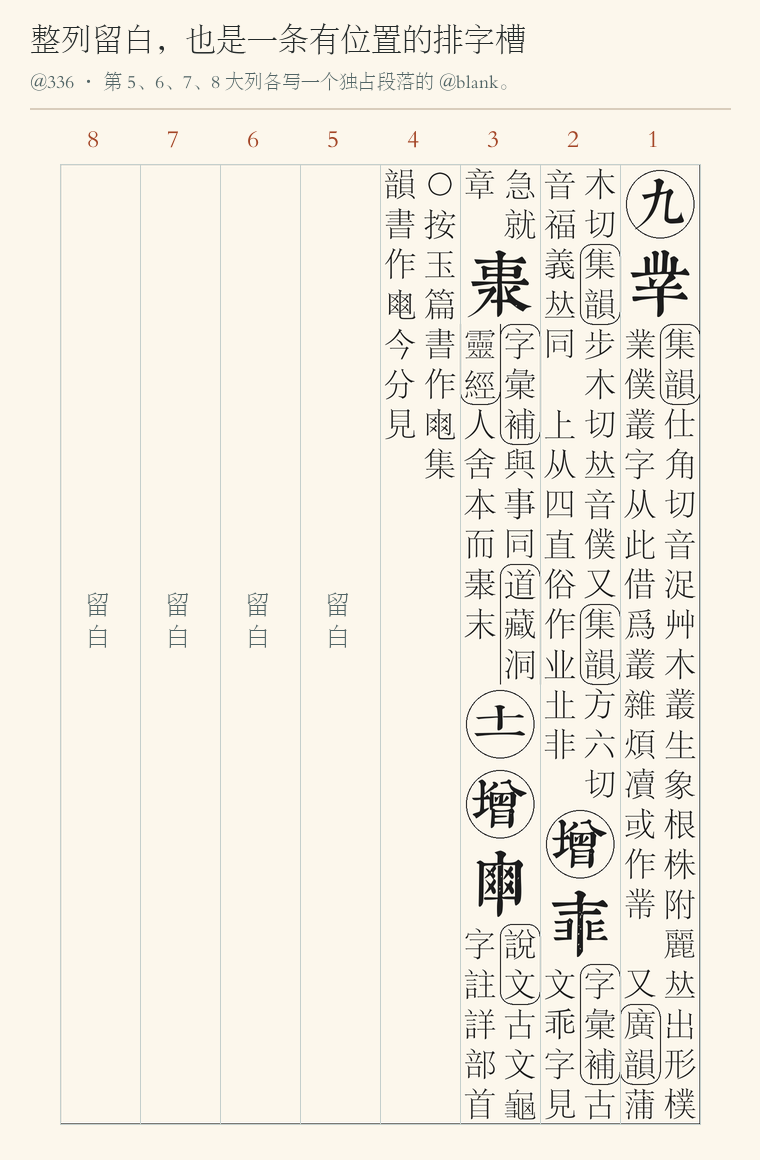
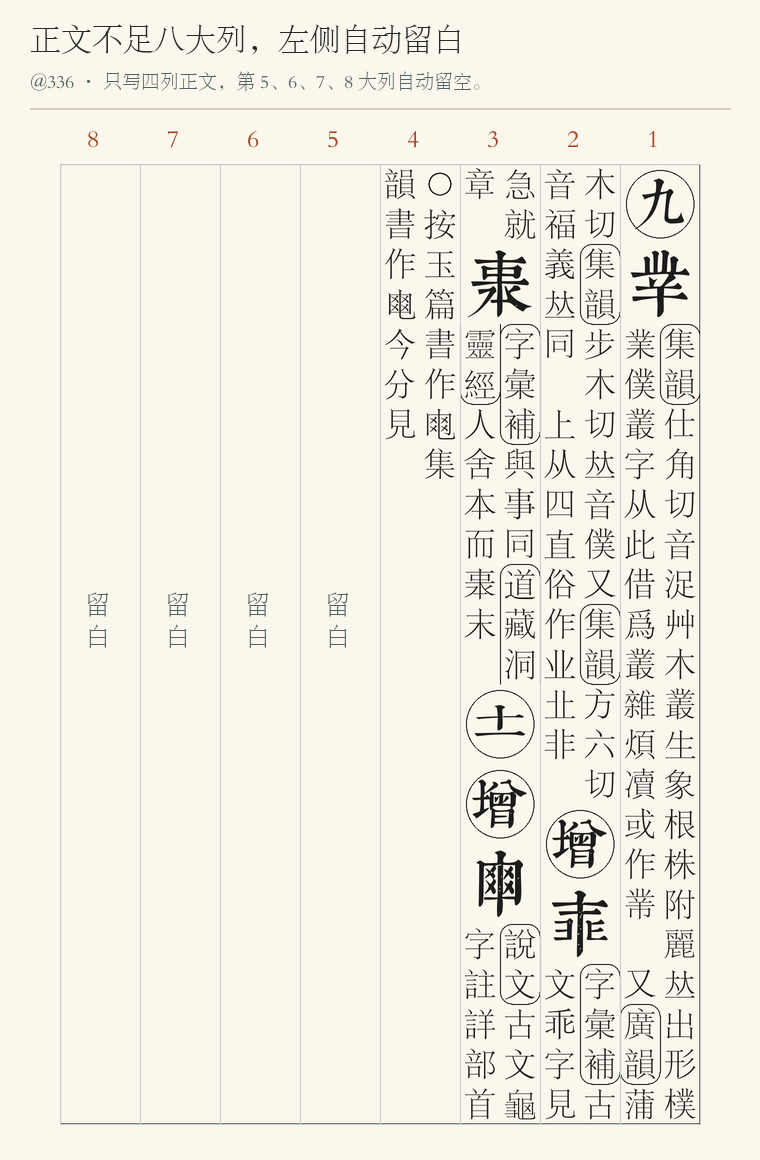
refactor(guji): remove @blank syntax and use automatic page padding

Changed region(s): [[0.0303, 0.0, 0.6961, 0.0931]]

diff --git a/guji-preview-grid/test/ir-contracts.spec.ts b/guji-preview-grid/test/ir-contracts.spec.ts
@@ -13,6 +13,7 @@ import { indexLayout, projectBooks, locateCell } from "../src/ir/projection";
 import { compileProfile } from "../src/ir/profile";
 import { parsePages } from "../src/parser/parse-pages";
 import { formatDocument } from "../src/components/dataset/format-document";
+import { getPageFrame } from "../src/ir/page-frame";
 import { nextGujiToken } from "../src/components/editor/guji-language";
 import { MatrixPages } from "../src/components/matrix/MatrixPages";
 import type { IRBookOverlay } from "../src/ir/types";
@@ -82,21 +83,30 @@ describe("layout plan and configuration", () => {
   it("diagnoses a three-column group without changing its contents", () => {
     const doc = gj2ir("@1\n\n甲\n乙\n丙\n");
     const page = layout3(doc)[0];
-    expect(page.diagnostics.map((d) => d.code)).toEqual(["band-count", "page-width", "band-width"]);
+    expect(page.diagnostics.map((d) => d.code)).toEqual(["band-width"]);
     expect(page.totalCols).toBe(3);
     expect(irToText(doc)).toBe("甲乙丙\n");
   });
-  it("keeps explicit empty columns through parsing, formatting and highlighting", () => {
+  it("treats the removed blank directive as ordinary text", () => {
     const source = "@1\n\n@blank\n\n甲乙\n";
-    const a = gj2ir(source);
-    const b = gj2ir(source.replace("@blank", "#"));
-    expect(layout3(a)).toEqual(layout3(b));
-    expect(irToText(a)).toBe("\n甲乙\n");
-    expect(parsePages(source)).toEqual(parsePages(source.replace("@blank", "#")));
+    const doc = gj2ir(source);
+    expect(irToText(doc)).toBe("@blank\n甲乙\n");
+    expect(parsePages(source)[0].l[0]).toEqual({ c: [{ t: "@blank" }] });
     expect(formatDocument(source).text).toBe(source);
-    expect(nextGujiToken("@blank", 0, true)).toMatchObject({ tok: "keyword", inBookAfter: true });
-    expect(layout3(a)[0].diagnostics.filter((d) => d.code === "empty-band")).toHaveLength(1);
+    expect(nextGujiToken("@blank", 0)).toMatchObject({ tok: null });
+    expect(nextGujiToken("@blank", 0, true)).toMatchObject({ tok: "link", inBookAfter: true });
+    expect(layout3(doc)[0].diagnostics).toEqual([]);
     expect(irToText(gj2ir("@1\n\n正文@blank\n"))).toContain("正文@blank");
+  });
+  it("allows automatic page padding but still diagnoses excess columns", () => {
+    for (const count of [0, 1, 4, 8]) {
+      const page = layout3(gj2ir(`@1\n\n${Array(count).fill("#甲").join("\n\n")}\n`))[0];
+      expect(page.bands).toHaveLength(count);
+      expect(getPageFrame(page)).toMatchObject({ cols: 16, rows: 24 });
+      expect(page.diagnostics).toEqual([]);
+    }
+    const source = `@1\n\n${Array(9).fill("#甲").join("\n\n")}\n`;
+    expect(layout3(gj2ir(source))[0].diagnostics.map((d) => d.code)).toEqual(["band-count", "page-width"]);
   });
 });
 
@@ -140,7 +150,7 @@ describe("overlay projection", () => {
   });
 });
 
-it("preserves the 45 migrated IR/TXT exports and their eight-band layouts", () => {
+it("preserves the 45 migrated IR/TXT exports within the full page frame", () => {
   const manifest = JSON.parse(read("kangxi-gold/manifest.json"));
   const widthCandidates: number[] = [];
   // New pages may be undergoing correction and have no saved exports yet.
@@ -156,8 +166,8 @@ it("preserves the 45 migrated IR/TXT exports and their eight-band layouts", () =
     expect(doc, `IR @${entry.page}`).toEqual(JSON.parse(read(`${base}.json`)));
     expect(irToText(doc), `TXT @${entry.page}`).toBe(read(`${base}.txt`));
     const page = layout3(doc)[0];
-    expect(page.bands).toHaveLength(8);
-    expect(page.totalCols).toBe(16);
+    expect(page.bands.length).toBeLessThanOrEqual(8);
+    expect(getPageFrame(page)).toMatchObject({ cols: 16, rows: 24 });
     if ([318, 320, 322, 325, 327].includes(entry.page))
       expect(page.bands.map((band) => band.rows)).toEqual(Array(8).fill(24));
     if (page.diagnostics.some((d) => d.code === "page-width")) widthCandidates.push(entry.page);

diff --git a/guji-preview-grid/test/parser.spec.ts b/guji-preview-grid/test/parser.spec.ts
@@ -36,9 +36,10 @@ describe("split", () => {
 });
 
 describe("generic line-scoped large text", () => {
-  it("page markers and explicit empty bands", () => {
+  it("only numeric page markers are structural", () => {
     expect(parseLine("@312")).toEqual({ page: 312 });
-    expect(parseLine("@blank")).toEqual({ st: "empty" });
+    expect(parseLine("@blank")).toEqual({ c: [{ t: "@blank" }] });
+    expect(parseLine("#")).toEqual({ c: [] });
   });
   it("all following content is large, including 古文, ASCII and extended Han", () => {
     expect(parseInline("前#甲古文Ab𠀀")).toEqual([
@@ -84,8 +85,8 @@ describe("formatGj", () => {
     expect(formatGj("古文：㘳")).toBe("古文：㘳\n");
     expect(formatGj("小字#甲【書】乙 // #注")).toBe("小字#甲【書】乙 // #注\n");
   });
-  it("canonicalizes empty columns and trims only document padding", () => {
-    expect(formatGj("\n// header\n@1\n\n#\n\n甲\n// tail\n")).toBe("@1\n\n@blank\n\n甲\n");
+  it("trims only document padding without rewriting size markers", () => {
+    expect(formatGj("\n// header\n@1\n\n#\n\n甲\n// tail\n")).toBe("@1\n\n#\n\n甲\n");
     const once = formatGj("#甲#乙\n古文：\n#(z)#丁");
     expect(formatGj(once)).toBe(once);
   });

diff --git a/guji-preview-grid/test/matrix-pages.spec.ts b/guji-preview-grid/test/matrix-pages.spec.ts
@@ -22,16 +22,18 @@ function expectFullPage(root: HTMLElement) {
 }
 
 describe("整页字格版框", () => {
-  it.each(["@1\n", "@1\n\n@blank\n"])("空页也保留 8×12 大字格：%j", (source) => {
+  it.each(["@1\n", "@1\n\n\n", "@1\n\n// 空页\n"])("空页也保留 8×12 大字格：%j", (source) => {
     const root = render(source);
     expectFullPage(root);
     expect(root.querySelectorAll(".m-large, .m-cell")).toHaveLength(0);
+    expect(root.querySelector(".m-layout-warning")).toBeNull();
   });
 
   it("短页保持字格大小，正文与书名框一起靠右，缺列留在左侧", () => {
     const root = render("@1\n\n#甲\n【乙丙】\n丁戊\n\n#己\n");
     expectFullPage(root);
     const bands = [...root.querySelectorAll<HTMLElement>(".m-band")];
+    expect(root.querySelector(".m-layout-warning")).toBeNull();
     expect(bands.map((band) => band.style.gridColumn)).toEqual(["15 / span 2", "13 / span 2"]);
     expect(bands[0].querySelector<HTMLElement>(".m-large")!.style.gridRow).toBe("1 / span 2");
     const book = root.querySelector<HTMLElement>(".m-book")!;

diff --git a/guji-preview-grid/src/components/editor/guji-language.ts b/guji-preview-grid/src/components/editor/guji-language.ts
@@ -2,7 +2,6 @@
 import { HighlightStyle, StreamLanguage } from "@codemirror/language";
 import { tags as t } from "@lezer/highlight";
 import { scanInline, type InlineToken } from "../../parser/inline-tokens";
-import { isBlankBand } from "../../parser/structure";
 import { kangxiHeading } from "../../semantics/kangxi";
 
 export type GujiTokenName = "comment" | "keyword" | "meta" | "heading" | "link" | "strong" | "escape";
@@ -17,7 +16,7 @@ export function nextGujiToken(line: string, pos: number, inBook = false): {
   next: number; tok: GujiTokenName | null; inBookAfter: boolean;
 } {
   if (pos === 0) {
-    if (isBlankBand(line) || /^\s*@\d+\s*$/.test(line))
+    if (/^\s*@\d+\s*$/.test(line))
       return { next: line.length, tok: "keyword", inBookAfter: inBook };
     if (/^\s*=+\s*$/.test(line)) return { next: line.length, tok: "meta", inBookAfter: inBook };
     if (/^\s*\/\//.test(line)) return { next: line.length, tok: "comment", inBookAfter: inBook };

diff --git a/guji-preview-grid/src/ir/layout-diagnostics.ts b/guji-preview-grid/src/ir/layout-diagnostics.ts
@@ -15,8 +15,8 @@ export function diagnoseLayout(page: L3Page): LayoutDiagnostic[] {
   const add = (code: LayoutDiagnostic["code"], message: string, bandId?: string, severity: LayoutDiagnostic["severity"] = "warning") =>
     out.push({ code, severity, page: page.no, bandId, message });
   if (expectedBands !== null) {
-    if (page.bands.length !== expectedBands) add("band-count", `大列数 ${page.bands.length}，预期 ${expectedBands}`);
-    if (page.totalCols !== expectedBands * smallColumnsPerBand)
+    if (page.bands.length > expectedBands) add("band-count", `大列数 ${page.bands.length}，超出版面 ${expectedBands}`);
+    if (page.totalCols > expectedBands * smallColumnsPerBand)
       add("page-width", `页宽 ${page.totalCols} 格，预期 ${expectedBands * smallColumnsPerBand} 格`);
   }
   for (const band of page.bands) {

diff --git a/guji-preview-grid/test/guji-language.spec.ts b/guji-preview-grid/test/guji-language.spec.ts
@@ -28,8 +28,10 @@ describe("line-scoped large highlighting", () => {
     expect(segments("#甲乙")).toEqual([["#甲乙", "strong"]]);
     expect(segments("#**一部// 注")).toEqual([["#**一部", "heading"], ["// 注", "comment"]]);
   });
-  it("keeps page markers, blank columns, separators and comments structural", () => {
-    for (const line of ["@341", "@blank"]) expect(segments(line)).toEqual([[line, "keyword"]]);
+  it("keeps page markers, separators and comments structural", () => {
+    expect(segments("@341")).toEqual([["@341", "keyword"]]);
+    expect(segments("@blank")).toEqual([..."@blank"].map((ch) => [ch, "plain"]));
+    expect(segments("#")).toEqual([["#", "strong"]]);
     expect(segments("===")).toEqual([["===", "meta"]]);
     expect(segments("// #甲")).toEqual([["// #甲", "comment"]]);
   });

diff --git a/guji-preview-grid/src/parser/split-line.ts b/guji-preview-grid/src/parser/split-line.ts
@@ -1,5 +1,4 @@
 import { scanInline } from "./inline-tokens";
-import { isBlankBand } from "./structure";
 
 /** Keep a leading comma with the preceding large glyph, before its newline/comment. */
 export function attachLeadingCommas(text: string): string {
@@ -37,7 +36,6 @@ export function normalizeInput(text: string): string {
 /** Formatting preserves physical newlines: they terminate the # size scope. */
 export function formatGj(text: string): string {
   const lines = attachLeadingCommas(normalizeInput(text)).split("\n").map((line) => {
-    if (isBlankBand(line)) return line.replace(/^[ \t]*#(?=[ \t]*(?:\/\/|$))/, "@blank");
     let seen = false, out = "", last = 0;
     for (const t of scanInline(line).tokens) if (t.kind === "size") {
       if (seen) { out += line.slice(last, t.from); last = t.to; }

diff --git a/guji-preview-grid/src/ir/gj2ir.ts b/guji-preview-grid/src/ir/gj2ir.ts
@@ -10,7 +10,6 @@ import type {
 } from "./types";
 import { GUJI_PROFILE } from "./types";
 import { scanInline } from "../parser/inline-tokens";
-import { isBlankBand } from "../parser/structure";
 
 const chunkTransform = (s: string) =>
   s
@@ -179,12 +178,6 @@ export function gj2ir(text: string): IRDocument {
     const page = pages[pages.length - 1];
     const bandId = `${page.id}-b${page.bands.length}`;
     const band: IRBand = { id: bandId, ord: page.bands.length, src: [c.from, c.to], lines: [] };
-
-    if (isBlankBand(c.text)) {
-      band.lines.push({ id: `${bandId}-l0`, ord: 0, src: c.lineRanges[0], elements: [] });
-      page.bands.push(band);
-      continue;
-    }
 
     const regions = detectRegions(c.text);
     let regionIndex = 0;

diff --git a/guji-preview-grid/test/gj2-migration.spec.ts b/guji-preview-grid/test/gj2-migration.spec.ts
@@ -14,6 +14,7 @@ const root = fileURLToPath(new URL("../../", import.meta.url));
 const sha = (s: string) => createHash("sha256").update(s).digest("hex");
 
 // Expected hashes came from the OLD parser before migration, including existing user edits.
+// Removing trailing padding bands refreshes their hashes after verifying unchanged framed glyphs/books.
 // Source IDs and line indices can change; visible cells and decoration geometry must not.
 function geometry(source: string) {
   const doc = gj2ir(source), laid = layout3(doc), books = projectBooks(laid, doc.overlays);

diff --git a/guji-preview-grid/src/components/dataset/DatasetView.tsx b/guji-preview-grid/src/components/dataset/DatasetView.tsx
@@ -34,7 +34,7 @@ import { formatDocument } from "@/components/dataset/format-document";
 import { HeadwordStrip } from "@/components/dataset/HeadwordStrip";
 import { resolvePageHeadwords } from "@/components/dataset/headwords";
 import { MatrixPages } from "@/components/matrix/MatrixPages";
-import { getPageFrame } from "@/components/matrix/page-frame";
+import { getPageFrame } from "@/ir/page-frame";
 import { useDebouncedValue } from "@/hooks/use-debounced-value";
 import { gj2ir } from "@/ir/gj2ir";
 import { layout3 } from "@/ir/layout3";

diff --git a/guji-preview-grid/src/semantics/kangxi.ts b/guji-preview-grid/src/semantics/kangxi.ts
@@ -58,7 +58,7 @@ export function kangxiEntries(gj: string): KangxiEntry[] {
   };
   for (const [li, raw] of lines.entries()) {
     const line = raw.trim();
-    if (!line || line.startsWith("//") || line === "@blank" || line === "#") continue;
+    if (!line || line.startsWith("//")) continue;
     if (/^@\d+$|^=+$/.test(line) || kangxiHeading(raw)) {
       current = undefined; marker = ""; variants = false; prefixLine = undefined; continue;
     }

diff --git a/guji-preview-grid/src/components/matrix/MatrixPages.tsx b/guji-preview-grid/src/components/matrix/MatrixPages.tsx
@@ -7,7 +7,7 @@ import { useMemo, type CSSProperties } from "react";
 import type { IROverlay, RenderHighlight } from "@/ir/types";
 import type { L3Item, L3Page } from "@/ir/layout3";
 import { indexLayout, projectBooks, locateCell, type BookBox, type LocatedRun } from "@/ir/projection";
-import { getPageFrame } from "./page-frame";
+import { getPageFrame } from "@/ir/page-frame";
 
 export function MatrixPages({
   pages,
